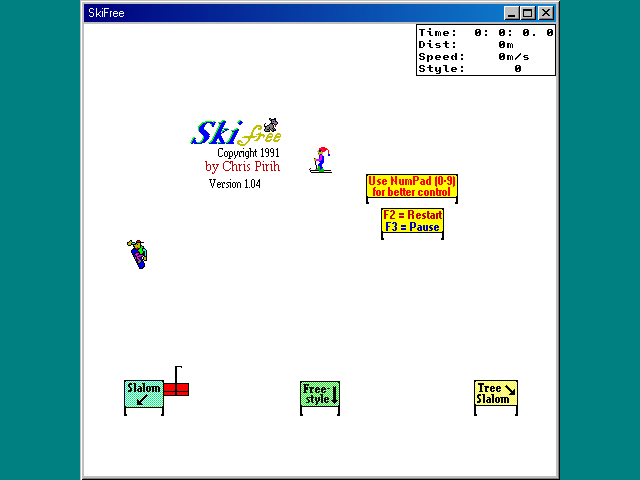
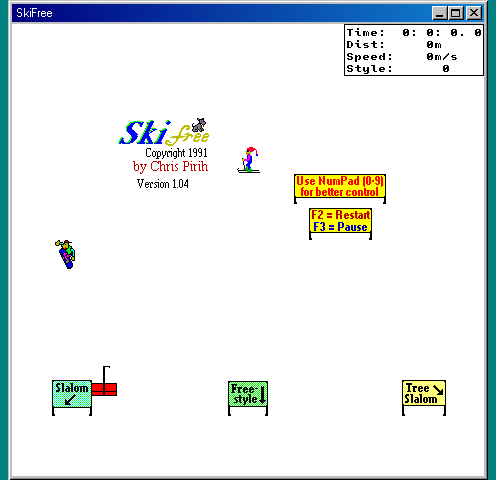
Crop app-page screenshots to the window, not the desktop
A headless capture is the whole 640x480 desktop, and Notepad or
Minesweeper is a fifth of it: the rest is teal. On an app page or a
search result that is wasted pixels around a small window.

tools/png-crop-desktop.js finds the bounding box of every pixel that is
not the desktop colour, pads it by 8px and rewrites the PNG in place.
The keep rule is area, not margin: a capture whose content fills more
than 90% of the frame is left alone, and a window parked at 0,0 (Calc)
still crops because it has teal on the other two sides. 23 of the 35
desktop captures shrink; the full-screen games are untouched.

tools/screenshot-registry.sh runs the crop on every PNG it writes
(SHOT_CROP=0 opts out), so a re-shoot lands already cropped.

The page generator reads each PNG's real width/height from the IHDR for
the <img> attributes instead of assuming 640x480, and the apps index
cards switch from a top-left cover crop to object-fit: contain so a tall
window shows whole in its 4:3 cell.

Claude-Session: https://claude.ai/code/session_017HrKyMC4JUQKYKstfNFDTr

diff --git a/tools/png-crop-desktop.js b/tools/png-crop-desktop.js
@@ -1,0 +1,83 @@
+#!/usr/bin/env node
+// Crop a screenshot to its window: drop the desktop-teal margin around what
+// the app actually drew.
+//
+//   node tools/png-crop-desktop.js <in.png> [<in.png> ...] [--out=DIR] [--pad=N]
+//        [--max-fill=0.9] [--dry-run]
+//
+// A headless capture is the whole 640x480 desktop, and a Notepad or a
+// Minesweeper occupies a fifth of it: the rest is Win98 teal (0,128,128),
+// which on an app page or a search result is wasted pixels around a small
+// window. This finds the bounding box of every pixel that is not the desktop
+// colour, pads it, and writes the crop. Files are rewritten in place unless
+// --out names a directory.
+//
+// A capture whose content already fills the frame (a full-screen game, a
+// maximized window) is left alone: if the content box covers more than
+// --max-fill of the frame (default 0.9) there is nothing to gain and the crop
+// would only shave a border. The test is area, not margin, because a window
+// parked at 0,0 has a zero margin on two sides and a lot of teal on the other
+// two. --dry-run prints the boxes and writes nothing.
+//
+// Exact-colour matching is deliberate: the desktop is flat teal and nothing an
+// app draws is that exact value by accident often enough to matter, and a
+// tolerance would start eating dark-green card tables.
+
+const fs = require('fs');
+const path = require('path');
+const { PNG } = require('pngjs');
+
+const DESKTOP = [0, 128, 128];
+
+function contentBox(png) {
+  const { width, height, data } = png;
+  let x0 = width, y0 = height, x1 = -1, y1 = -1;
+  for (let y = 0; y < height; y++) {
+    for (let x = 0; x < width; x++) {
+      const i = (y * width + x) * 4;
+      if (data[i] === DESKTOP[0] && data[i + 1] === DESKTOP[1] && data[i + 2] === DESKTOP[2]) continue;
+      if (x < x0) x0 = x;
+      if (x > x1) x1 = x;
+      if (y < y0) y0 = y;
+      if (y > y1) y1 = y;
+    }
+  }
+  return x1 < 0 ? null : { x0, y0, x1, y1 };
+}
+
+function cropPng(png, box, pad) {
+  const x0 = Math.max(0, box.x0 - pad), y0 = Math.max(0, box.y0 - pad);
+  const x1 = Math.min(png.width - 1, box.x1 + pad), y1 = Math.min(png.height - 1, box.y1 + pad);
+  const out = new PNG({ width: x1 - x0 + 1, height: y1 - y0 + 1 });
+  PNG.bitblt(png, out, x0, y0, out.width, out.height, 0, 0);
+  return out;
+}
+
+function cropFile(file, { pad = 8, maxFill = 0.9, outDir = null, dryRun = false } = {}) {
+  const png = PNG.sync.read(fs.readFileSync(file));
+  const box = contentBox(png);
+  if (!box) return { file, action: 'skip', reason: 'all desktop colour' };
+  const fill = ((box.x1 - box.x0 + 1) * (box.y1 - box.y0 + 1)) / (png.width * png.height);
+  if (fill > maxFill) return { file, action: 'keep', reason: `fills ${(fill * 100).toFixed(0)}%`, box };
+  const out = cropPng(png, box, pad);
+  const dest = outDir ? path.join(outDir, path.basename(file)) : file;
+  if (!dryRun) fs.writeFileSync(dest, PNG.sync.write(out));
+  return { file, action: 'crop', box, from: `${png.width}x${png.height}`, to: `${out.width}x${out.height}`, dest };
+}
+
+module.exports = { contentBox, cropFile, DESKTOP };
+
+if (require.main === module) {
+  const args = process.argv.slice(2);
+  const opt = (name, def) => { const a = args.find(s => s.startsWith(`--${name}=`)); return a ? a.slice(name.length + 3) : def; };
+  const files = args.filter(a => !a.startsWith('--'));
+  if (!files.length) { console.error('usage: png-crop-desktop.js <png> [...] [--out=DIR] [--pad=N] [--max-fill=0.9] [--dry-run]'); process.exit(2); }
+  const outDir = opt('out', null);
+  if (outDir) fs.mkdirSync(outDir, { recursive: true });
+  const o = { pad: +opt('pad', 8), maxFill: +opt('max-fill', 0.9), outDir, dryRun: args.includes('--dry-run') };
+  for (const f of files) {
+    const r = cropFile(f, o);
+    const tag = r.action === 'crop' ? `${r.from} -> ${r.to}` : r.reason;
+    console.log(`${r.action.padEnd(5)} ${path.basename(f)}  ${tag}`);
+  }
+}

diff --git a/tools/gen-site-pages.js b/tools/gen-site-pages.js
@@ -68,7 +68,8 @@ const STYLE = `
     .app-grid { display: grid; grid-template-columns: repeat(auto-fill, minmax(200px, 1fr)); gap: 14px; margin: 0.8em 0 1.6em; }
     .app-card { display: block; text-decoration: none; color: inherit; background: #fff; border: 1px solid #d8d2c4; border-radius: 6px; overflow: hidden; }
     .app-card:hover { border-color: #0645ad; }
-    .app-card img { display: block; width: 100%; aspect-ratio: 4 / 3; object-fit: cover; object-position: top left; background: #008080; }
+    .app-card img { display: block; width: 100%; aspect-ratio: 4 / 3; object-fit: contain; background: #008080; }
+    .app-shot { max-width: 100%; height: auto; }
     .app-card span { display: block; padding: 6px 9px; font-size: 14px; font-weight: 600; }
     .app-card small { display: block; padding: 0 9px 8px; font-size: 12px; color: #666; font-weight: 400; }
     .app-launch { display: inline-block; background: #008080; color: #fff !important; text-decoration: none; padding: 9px 16px; border-radius: 4px; font-weight: 600; margin: 0.4em 0 1em; }
@@ -208,6 +209,19 @@ const GROUP_LABELS = {
 };
 const NO_GROUP = 'More games';
 
+// Width/height straight from the PNG's IHDR, so the <img> attributes match
+// the file: the captures are cropped to the window by tools/png-crop-desktop.js
+// and are no longer all 640x480, and a wrong attribute pair makes the browser
+// reserve the wrong box and reflow when the picture arrives.
+function pngSize(file) {
+  const b = Buffer.alloc(24);
+  const fd = fs.openSync(file, 'r');
+  fs.readSync(fd, b, 0, 24, 0);
+  fs.closeSync(fd);
+  return { width: b.readUInt32BE(16), height: b.readUInt32BE(20) };
+}
+const sizeAttrs = s => s ? `width="${s.width}" height="${s.height}"` : '';
+
 function dropdownGroups() {
   const html = fs.readFileSync(path.join(ROOT, 'index.html'), 'utf-8');
   const start = html.indexOf('id="app-select"');
@@ -272,6 +286,7 @@ function loadDesktopApps() {
       lan: !!app.lan,
       touch: !!app.touchControls,
       shot: fs.existsSync(path.join(ROOT, shot)) ? shot : null,
+      shotSize: fs.existsSync(path.join(ROOT, shot)) ? pngSize(path.join(ROOT, shot)) : null,
       notes,
     };
   });
@@ -291,7 +306,7 @@ function appPageMd(app, siblings) {
   L.push(`<a class="app-launch" href="/?app=${app.id}">Launch ${app.name} &rarr;</a>`);
   L.push('');
   if (app.shot) {
-    L.push(`<img class="app-shot" src="/${app.shot}" alt="${esc(app.name)} running in Wine-Assembly" width="640" height="480">`);
+    L.push(`<img class="app-shot" src="/${app.shot}" alt="${esc(app.name)} running in Wine-Assembly" ${sizeAttrs(app.shotSize)}>`);
     L.push('');
   }
   L.push('## About this program');
@@ -351,7 +366,7 @@ function appsIndexMd(apps) {
     L.push('');
     L.push('<div class="app-grid">');
     for (const a of list) {
-      const img = a.shot ? `<img src="/${a.shot}" alt="" loading="lazy" width="320" height="240">` : '';
+      const img = a.shot ? `<img src="/${a.shot}" alt="" loading="lazy" ${sizeAttrs(a.shotSize)}>` : '';
       const first = a.blurb.split(/(?<=\.)\s/)[0];
       L.push(`<a class="app-card" href="/apps/${a.id}.html">${img}<span>${esc(a.name)}</span><small>${esc(first)}</small></a>`);
     }

diff --git a/story.html b/story.html
@@ -57,7 +57,8 @@
     .app-grid { display: grid; grid-template-columns: repeat(auto-fill, minmax(200px, 1fr)); gap: 14px; margin: 0.8em 0 1.6em; }
     .app-card { display: block; text-decoration: none; color: inherit; background: #fff; border: 1px solid #d8d2c4; border-radius: 6px; overflow: hidden; }
     .app-card:hover { border-color: #0645ad; }
-    .app-card img { display: block; width: 100%; aspect-ratio: 4 / 3; object-fit: cover; object-position: top left; background: #008080; }
+    .app-card img { display: block; width: 100%; aspect-ratio: 4 / 3; object-fit: contain; background: #008080; }
+    .app-shot { max-width: 100%; height: auto; }
     .app-card span { display: block; padding: 6px 9px; font-size: 14px; font-weight: 600; }
     .app-card small { display: block; padding: 0 9px 8px; font-size: 12px; color: #666; font-weight: 400; }
     .app-launch { display: inline-block; background: #008080; color: #fff !important; text-decoration: none; padding: 9px 16px; border-radius: 4px; font-weight: 600; margin: 0.4em 0 1em; }
